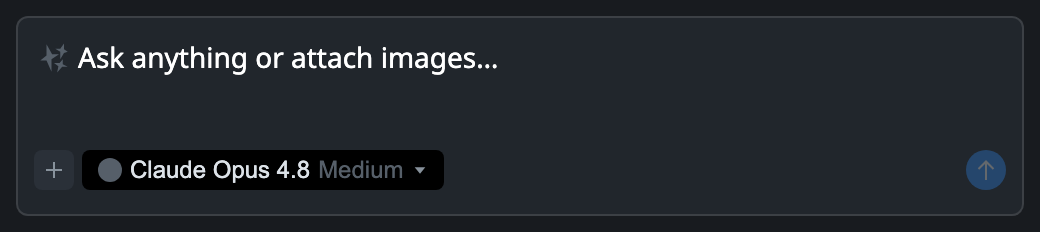
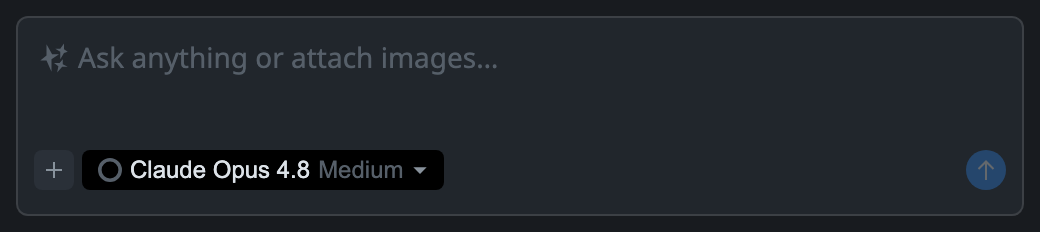
fix(overdare): match the composer gauge and frame to the Figma spec

Changed region(s): [[0.0615, 0.2112, 0.4923, 0.3319], [0.0923, 0.694, 0.1231, 0.7845]]

diff --git a/apps/overdare-ai-agent/sidecar/src/web/client/components/UsageGauge.tsx b/apps/overdare-ai-agent/sidecar/src/web/client/components/UsageGauge.tsx
@@ -1,4 +1,4 @@
-// @summary 12px context-usage pie with a hover tooltip that replaces the composer's inline token counter
+// @summary 12px context-usage ring with a hover tooltip that replaces the composer's inline token counter
 
 import { type RefObject, useEffect, useState } from "react";
 import { createPortal } from "react-dom";
@@ -7,6 +7,13 @@ import { usageTooltipClasses } from "./ui-styles";
 
 const GAUGE_TRACK_COLOR = "#565F69";
 const GAUGE_FILL_COLOR = "#40BF80";
+/**
+ * Design `progressbar`: a 12px ring whose outer edge is r6 and inner edge r4.2, so the stroke is
+ * 1.8px wide centred on r5.1. The fill sweeps clockwise from 12 o'clock.
+ */
+const GAUGE_RADIUS = 5.1;
+const GAUGE_STROKE = 1.8;
+const GAUGE_CIRCUMFERENCE = 2 * Math.PI * GAUGE_RADIUS;
 /** Gap between the anchor and the tooltip, per the design's 4px offset. */
 const TOOLTIP_OFFSET = 4;
 /** Below-placement is preferred; flip above when the viewport cannot fit the 32px tooltip. */
@@ -65,19 +72,31 @@ function useTooltipPosition(anchorRef: RefObject<HTMLElement | null>, open: bool
   return position;
 }
 
-/** Pie-style fill matching the design's quarter-masked progress token. */
 export function UsageGauge({ ratio, className }: { ratio: number; className?: string }) {
-  const pct = Math.min(100, Math.max(0, ratio * 100));
+  const clamped = Math.min(1, Math.max(0, ratio));
   return (
-    <span
+    <svg
+      viewBox="0 0 12 12"
       data-icon="usage-gauge"
-      data-usage-percent={Math.round(pct)}
+      data-usage-percent={Math.round(clamped * 100)}
       aria-hidden="true"
-      className={cn("block h-3 w-3 shrink-0 rounded-full", className)}
-      style={{
-        background: `conic-gradient(${GAUGE_FILL_COLOR} 0 ${pct}%, ${GAUGE_TRACK_COLOR} ${pct}% 100%)`,
-      }}
-    />
+      focusable="false"
+      className={cn("block h-3 w-3 shrink-0", className)}
+    >
+      <circle cx="6" cy="6" r={GAUGE_RADIUS} fill="none" stroke={GAUGE_TRACK_COLOR} strokeWidth={GAUGE_STROKE} />
+      {clamped > 0 ? (
+        <circle
+          cx="6"
+          cy="6"
+          r={GAUGE_RADIUS}
+          fill="none"
+          stroke={GAUGE_FILL_COLOR}
+          strokeWidth={GAUGE_STROKE}
+          strokeDasharray={`${clamped * GAUGE_CIRCUMFERENCE} ${GAUGE_CIRCUMFERENCE}`}
+          transform="rotate(-90 6 6)"
+        />
+      ) : null}
+    </svg>
   );
 }
 

diff --git a/apps/overdare-ai-agent/sidecar/test/web/client/components/composer-menu-geometry.test.ts b/apps/overdare-ai-agent/sidecar/test/web/client/components/composer-menu-geometry.test.ts
@@ -1,8 +1,13 @@
 // @summary Pins the composer menu/tooltip math against the Figma spec (28px header, 8px inset, 24px rows, 2px submenu gap)
 
 import { expect, test } from "bun:test";
+import { renderToStaticMarkup } from "react-dom/server";
 import { getComposerMenuHeight, getSubmenuPosition } from "../../../../src/web/client/components/ModelEffortSelect";
-import { formatUsageTooltipLabel, getUsageGaugeRatio } from "../../../../src/web/client/components/UsageGauge";
+import {
+  formatUsageTooltipLabel,
+  getUsageGaugeRatio,
+  UsageGauge,
+} from "../../../../src/web/client/components/UsageGauge";
 
 test("menu height matches the design panels", () => {
   // Models: 200x228 with 8 rows. Effort: 180x156 with 5 rows.
@@ -27,6 +32,28 @@ test("effort submenu sits 2px right of the models panel and stays inside the vie
     left: 102,
     top: 8,
   });
+});
+
+test("usage gauge is a 1.8px ring, not a filled pie", () => {
+  // Figma `progressbar`: outer edge r6, inner edge r4.2 — so stroke 1.8 centred on r5.1, in a 12px box.
+  const html = renderToStaticMarkup(UsageGauge({ ratio: 0.25 }));
+  expect(html).toContain('viewBox="0 0 12 12"');
+  expect(html).toContain('r="5.1"');
+  expect(html).toContain('stroke-width="1.8"');
+  expect(html).toContain('fill="none"');
+  expect(html).toContain('stroke="#565F69"');
+  expect(html).toContain('stroke="#40BF80"');
+  // Sweeps clockwise from 12 o'clock.
+  expect(html).toContain('transform="rotate(-90 6 6)"');
+  expect(html).not.toContain("conic-gradient");
+
+  const circumference = 2 * Math.PI * 5.1;
+  expect(html).toContain(`stroke-dasharray="${0.25 * circumference} ${circumference}"`);
+
+  // An unused context window draws the track only.
+  const empty = renderToStaticMarkup(UsageGauge({ ratio: 0 }));
+  expect(empty).not.toContain("#40BF80");
+  expect(empty).toContain('data-usage-percent="0"');
 });
 
 test("usage ratio clamps and the tooltip reads as designed", () => {

diff --git a/apps/overdare-ai-agent/sidecar/test/web/client/components/components.test.tsx b/apps/overdare-ai-agent/sidecar/test/web/client/components/components.test.tsx
@@ -1123,7 +1123,8 @@ test("input dock keeps the agent logo before the placeholder while the input is 
   expect(idleHtml).not.toContain("Queue a message…");
   expect(idleHtml).toContain("Ask anything…");
   expect(idleHtml).toContain('data-icon="agent-logo"');
-  expect(idleHtml).toContain("items-center gap-0.5 text-white");
+  // Design `Title`: the agent logo and the placeholder text share #565F69.
+  expect(idleHtml).toContain("items-center gap-0.5 text-[#565F69]");
   expect(idleHtml).not.toContain("placeholder=");
 });
 
@@ -1165,7 +1166,7 @@ test("input dock composer textarea does not inherit field border styles", () => 
 
   const textarea = html.match(/<textarea[^>]*aria-label="Queue input"[^>]*>/)?.[0] ?? "";
   expect(html).toContain(
-    "relative flex min-h-[100px] flex-col justify-between gap-2 rounded-sm border bg-surface-composer px-2 py-2.5",
+    "relative flex min-h-[100px] flex-col justify-between gap-3 rounded-sm border bg-surface-composer px-2 py-2.5",
   );
   expect(textarea).toContain("min-h-10");
   expect(textarea).toContain("block");

diff --git a/apps/overdare-ai-agent/sidecar/src/web/client/components/ui-styles.ts b/apps/overdare-ai-agent/sidecar/src/web/client/components/ui-styles.ts
@@ -90,8 +90,9 @@ export const pillBadgeClasses = "rounded-full border px-2 py-0.5 text-2xs upperc
 
 export const detailPanelClasses = "rounded-md border border-border/40 bg-surface-default px-4 py-3";
 
+/** Design `<inputBox>`: 10px/8px padding, 12px row gap, 6px radius (`rounded-sm` resolves to 0.375rem). */
 export const composerFrameClasses =
-  "relative flex min-h-[100px] flex-col justify-between gap-2 rounded-sm border bg-surface-composer px-2 py-2.5";
+  "relative flex min-h-[100px] flex-col justify-between gap-3 rounded-sm border bg-surface-composer px-2 py-2.5";
 
 export const composerTextAreaClasses =
   "block min-h-10 w-full rounded-none border-0 bg-transparent px-0 py-0 text-sm leading-5 text-text placeholder:text-text-subtle focus:outline-none focus:ring-0 focus-visible:outline-none focus-visible:ring-0 focus-visible:ring-transparent";

diff --git a/apps/overdare-ai-agent/sidecar/src/web/client/components/InputDock.tsx b/apps/overdare-ai-agent/sidecar/src/web/client/components/InputDock.tsx
@@ -410,9 +410,9 @@ export function InputDock({
             {input.length === 0 ? (
               <div
                 aria-hidden="true"
-                className="pointer-events-none absolute left-0 top-0 flex h-5 items-center gap-0.5 text-white"
+                className="pointer-events-none absolute left-0 top-0 flex h-5 items-center gap-0.5 text-[#565F69]"
               >
-                <AgentLogo className="h-5 w-5 shrink-0 text-[#565F69]" />
+                <AgentLogo className="h-5 w-5 shrink-0" />
                 <span className="text-sm leading-5">
                   {isBusy ? "Queue a message…" : supportsVision ? "Ask anything or attach images…" : "Ask anything…"}
                 </span>

diff --git a/apps/overdare-ai-agent/sidecar/src/web/client/components/ComposerContextChips.tsx b/apps/overdare-ai-agent/sidecar/src/web/client/components/ComposerContextChips.tsx
@@ -22,7 +22,7 @@ export function ComposerContextChips({ items, onRemove }: ComposerContextChipsPr
   return (
     <section
       aria-label="Attached context"
-      className="flex min-h-5 max-h-24 max-w-full shrink-0 flex-wrap content-start items-center gap-1 overflow-y-auto"
+      className="flex min-h-5 max-h-24 max-w-full shrink-0 flex-wrap content-start items-center gap-0.5 overflow-y-auto"
     >
       {items.map((item) => {
         const key = getAgentContextItemKey(item);
